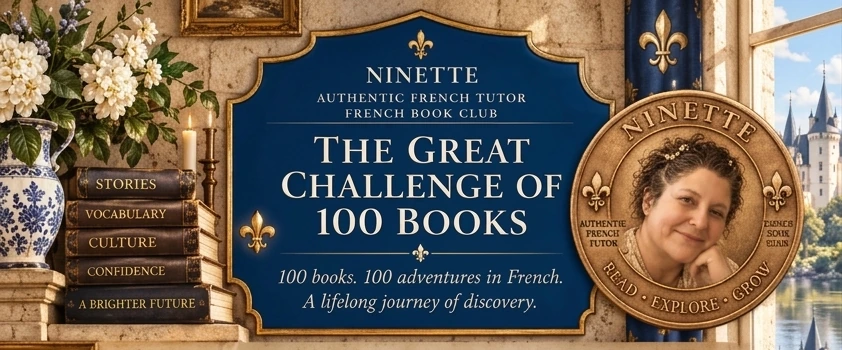
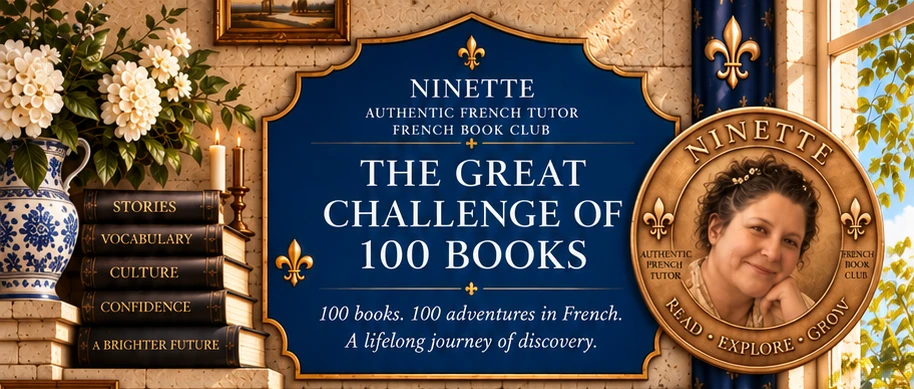
Refresh Book Club scene slices

diff --git a/bookclub.html b/bookclub.html
@@ -31,9 +31,10 @@
         </header>
         <main class="bookclub-page-main">
             <div id="bookclub">
-                <img class="bc-banner" src="images/img-008-banner.webp" width="842" height="350" fetchpriority="high" alt="Ninette Authentic French Tutor · French Book Club · The Great Challenge of 100 Books">
+                <img class="bc-banner" src="images/img-008-banner.webp" width="914" height="389" fetchpriority="high" alt="Ninette Authentic French Tutor · French Book Club · The Great Challenge of 100 Books">
+                <img class="bc-monthly-wall" src="images/bc-monthly-wall.webp" width="914" height="223" loading="lazy" decoding="async" alt="Stone wall in the chateau library, reserved for monthly featured books">
                 <div class="bc-top">
-                    <img class="bc-top-img" src="images/bc-top.webp" width="842" height="268" alt="Book Club levels, reading progress and milestone medals on the château library wall">
+                    <img class="bc-top-img" src="images/bc-top.webp" width="914" height="368" alt="Book Club levels, reading progress and milestone medals on the chateau library wall">
                     <div class="bc-tabs" role="tablist" aria-label="Book Club levels">
                         <button type="button" class="bc-tab" data-level="ages-2-5" role="tab">Ages 2–5</button>
                         <button type="button" class="bc-tab" data-level="k-2" role="tab" aria-label="Kindergarten to 2nd Grade">K–2</button>
@@ -46,15 +47,15 @@
                         <div class="bc-progress"><div class="bc-progress-fill" id="bc-progress-fill"></div></div>
                     </div>
                 </div>
-                <img class="bc-cornice" loading="lazy" decoding="async" src="images/bc-cornice.webp" width="842" height="130" alt="Our Growing French Library">
+                <img class="bc-cornice" loading="lazy" decoding="async" src="images/bc-cornice.webp" width="914" height="129" alt="Our Growing French Library">
                 <div class="bc-shelf-band">
-                    <img class="bc-shelf-band-img" src="images/bc-shelf-band.webp" width="842" height="317" loading="lazy" decoding="async" alt="Wooden château library cabinet">
+                    <img class="bc-shelf-band-img" src="images/bc-shelf-band.webp" width="914" height="402" loading="lazy" decoding="async" alt="Wooden chateau library cabinet">
                     <div class="bc-shelf" id="bc-shelf"></div>
                     <div class="bc-scrollbar" id="bc-scrollbar" hidden aria-hidden="true">
                         <div class="bc-scroll-thumb" id="bc-scroll-thumb"></div>
                     </div>
                 </div>
-                <img class="bc-bottom" loading="lazy" decoding="async" src="images/bc-bottom.webp" width="842" height="199" alt="A cozy reading corner with an armchair, a cat, and a cup of tea — &quot;A child who reads in French discovers a wider, kinder, more beautiful world.&quot; — Ninette">
+                <img class="bc-bottom" loading="lazy" decoding="async" src="images/bc-bottom.webp" width="914" height="210" alt="A cozy reading corner with an armchair, a cat, and a cup of tea - &quot;A child who reads in French discovers a wider, kinder, more beautiful world.&quot; - Ninette">
             </div>
         </main>
         <script src="scripts/bookclub.js" defer></script>

diff --git a/styles.css b/styles.css
@@ -930,11 +930,12 @@ body {
 .bc-top {
     position: relative;
     line-height: 0;
-    aspect-ratio: 842 / 268;
+    aspect-ratio: 914 / 368;
     overflow: hidden;
 }
 
 .bc-top-img,
+.bc-monthly-wall,
 .bc-cornice,
 .bc-bottom,
 .bc-shelf-band-img {
@@ -961,9 +962,9 @@ body {
 
 .bc-tabs {
     position: absolute;
-    left: 14.3%;
+    left: 16.3%;
     right: 13.3%;
-    top: 0.8%;
+    top: 5.8%;
     height: 15.7%;
     display: grid;
     grid-template-columns: repeat(5, minmax(0, 1fr));
@@ -1015,7 +1016,7 @@ body {
     position: absolute;
     left: 15.4%;
     right: 15.1%;
-    top: 29%;
+    top: 26%;
     height: 14%;
     display: flex;
     flex-direction: column;
@@ -1063,16 +1064,16 @@ body {
     position: relative;
     line-height: 0;
     background: #241507;
-    aspect-ratio: 842 / 317;
+    aspect-ratio: 914 / 402;
     overflow: hidden;
 }
 
 .bc-shelf {
     position: absolute;
-    left: 18.4%;
-    right: 18.2%;
+    left: 18.2%;
+    right: 16.9%;
     top: 2.2%;
-    bottom: 8.7%;
+    bottom: 17%;
     display: flex;
     flex-direction: column;
     gap: 3%;
